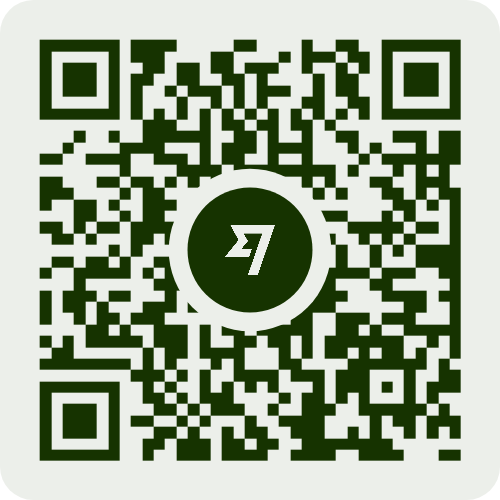
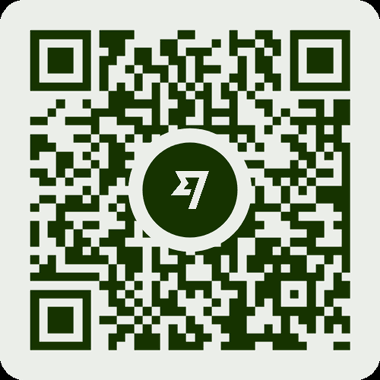
Add files via upload

diff --git a/index.html b/index.html
@@ -45,10 +45,10 @@
     .methods { display: grid; grid-template-columns: repeat(2, minmax(0, 1fr)); gap: .8rem; padding: 0 clamp(1rem, 5vw, 2.4rem) 1.5rem; }
     .method { min-width: 0; padding: .85rem .95rem; border: 1px solid var(--line); border-radius: 17px; background: #fff; align-self: start; }
     .method[open] { grid-column: 1 / -1; border-color: #cdd8ea; box-shadow: 0 10px 28px rgba(30, 53, 100, .07); }
-    .method-top { display: flex; align-items: center; justify-content: space-between; gap: .7rem; cursor: pointer; list-style: none; }
+    .method-top { display: grid; grid-template-columns: minmax(0, 1fr) auto .8rem; align-items: center; gap: .65rem; cursor: pointer; list-style: none; }
     .method-top::-webkit-details-marker { display: none; }
     .method-top:focus-visible { outline: 3px solid #9bb5ff; outline-offset: 4px; border-radius: 6px; }
-    .method-top::after { content: ""; width: .55rem; height: .55rem; flex: 0 0 auto; border-right: 2px solid #8290a7; border-bottom: 2px solid #8290a7; transform: rotate(45deg) translateY(-2px); transition: transform .15s ease; }
+    .method-top::after { content: ""; justify-self: end; width: .55rem; height: .55rem; border-right: 2px solid #8290a7; border-bottom: 2px solid #8290a7; transform: rotate(45deg) translateY(-2px); transition: transform .15s ease; }
     .method[open] > .method-top::after { transform: rotate(225deg) translate(-2px, -1px); }
     h2 { display: flex; align-items: center; gap: .6rem; margin: 0; font-size: 1.05rem; line-height: 1.35; font-weight: 700; }
     .brand-icon { width: 1.55rem; height: 1.55rem; flex: 0 0 auto; }
@@ -64,10 +64,10 @@
     h2 .monobank-cat { width: 2.1rem; height: 2.1rem; object-fit: contain; }
     .method-meta { flex: 0 0 auto; padding: .32rem .58rem; border-radius: 99px; background: #f0f4fb; color: #53627c; font-size: .78rem; font-weight: 650; }
     .method > .content { margin-top: .9rem; }
-    .payment-content { display: grid; grid-template-columns: minmax(0, 1fr) minmax(110px, 42%); align-items: center; gap: .9rem; }
-    .payment-content .action { width: 100%; }
-    .payment-content .qr-block { width: 100%; margin: 0; }
-    .payment-content .qr-caption { text-align: center; }
+    .payment-content { display: flex; flex-direction: column; align-items: flex-start; gap: .85rem; }
+    .payment-content .action { width: min(100%, 19rem); }
+    .payment-content .qr-block { width: min(100%, 200px); margin: 0; }
+    .payment-content .qr-caption { text-align: left; }
     .mono-content { display: flex; justify-content: center; }
     .action-paypal { background: #0070e0; }
     .action-paypal .brand-icon { color: #fff; }
@@ -105,8 +105,8 @@
     footer { padding: 1rem; border-top: 1px solid #edf0f5; color: var(--muted); text-align: center; font-size: .84rem; }
     #toast { position: fixed; z-index: 5; right: 1rem; bottom: 1rem; max-width: min(25rem, calc(100vw - 2rem)); padding: .9rem 1.1rem; border-radius: 13px; background: #16233c; color: #fff; box-shadow: 0 12px 32px rgba(10, 20, 40, .23); font-size: .96rem; line-height: 1.45; opacity: 0; pointer-events: none; transform: translateY(.5rem); transition: opacity .18s ease, transform .18s ease; }
     #toast.show { opacity: 1; transform: translateY(0); }
-    @media (max-width: 600px) { .methods { grid-template-columns: 1fr; } .method { padding: .8rem .9rem; } .method-top h2 { font-size: .98rem; } .method-meta { font-size: .72rem; } .payment-content, .coin-panel { grid-template-columns: minmax(0, 1fr) minmax(105px, 40%); gap: .7rem; } .payment-content .qr-block, .coin-panel .qr-block { width: 100%; justify-self: stretch; } }
-    @media (max-width: 380px) { .payment-content, .coin-panel { grid-template-columns: 1fr; } .payment-content .qr-block, .coin-panel .qr-block { width: min(100%, 175px); justify-self: center; } }
+    @media (max-width: 600px) { .methods { grid-template-columns: 1fr; } .method { padding: .8rem .9rem; } .method-top h2 { font-size: .98rem; } .method-meta { font-size: .72rem; } .payment-content, .coin-panel { gap: .7rem; } .coin-panel .qr-block { width: 100%; justify-self: stretch; } }
+    @media (max-width: 380px) { .coin-panel { grid-template-columns: 1fr; } .coin-panel .qr-block { width: min(100%, 175px); justify-self: center; } }
     @media (max-width: 460px) { body { padding: .8rem; } .card { border-radius: 21px; } header { padding-inline: 1rem; } h1 { font-size: clamp(1.05rem, 6vw, 1.45rem); } .item { padding: .7rem; } .action { padding-inline: .75rem; } }
     @media (prefers-reduced-motion: reduce) { *, *::before, *::after { scroll-behavior: auto !important; transition-duration: .01ms !important; } }
   </style>
@@ -128,7 +128,7 @@
           <div class="content payment-content"></div>
         </details>
         <details class="method" id="monobank">
-          <summary class="method-top"><h2><img class="brand-icon monobank-cat" data-src="./assets/monobank-cat.png" alt="">Monobank</h2><span class="method-meta"></span></summary>
[1 lines of base64/hex data omitted]
           <div class="content mono-content"></div>
         </details>
         <details class="method" id="crypto">

diff --git a/README.md b/README.md
@@ -6,10 +6,10 @@ A compact thank-you page for GitHub Pages. Payment methods start collapsed; open
 
 - PayPal: PayPal.Me link and QR image, with USD shown as the currency.
 - Wise: payment link and QR image, labeled as multi-currency.
-- Monobank: cat logo and QR image, labeled UAH (₴).
+- Monobank: embedded cat logo and QR image, labeled UAH (₴).
 - Cryptocurrency: BTC, USDC (Ethereum ERC-20), USDT (Ethereum ERC-20), and USDT (TRON TRC-20), each with its own QR image and network note.
 
-QR files are stored in `assets/`. Keep their file names and paths in `payments.json` in sync. The QR images and payment details are public when this site is published.
+QR files are stored in `assets/` and resized for faster loading. They load only after a visitor opens a payment method. The small Monobank cat logo is embedded in `index.html`, so it does not depend on a separate image path. Keep QR file names and paths in `payments.json` in sync. The QR images and payment details are public when this site is published.
 
 ## Upload to GitHub Pages
 
